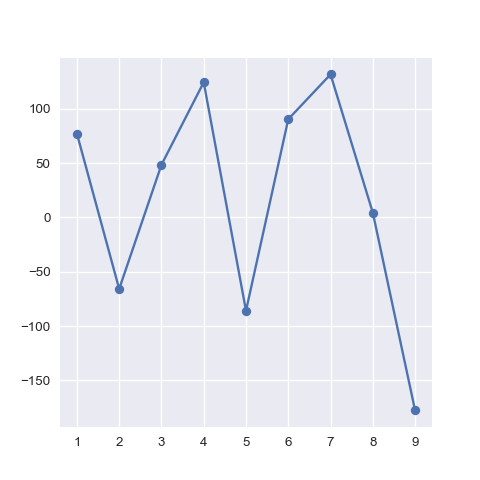
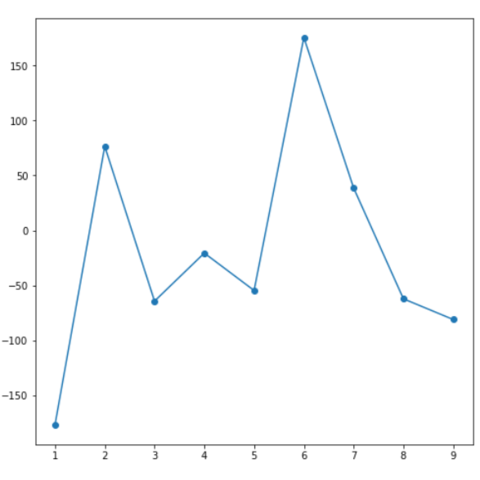
correct some stuff on the connected scatter section

diff --git a/src/pages/connected-scatter-plot.js b/src/pages/connected-scatter-plot.js
@@ -16,16 +16,20 @@ import Spacing from "../components/Spacing";
 const chartDescription =
   "<p>A <a href='https://www.data-to-viz.com/graph/connectedscatter.html'>connected scatterplot</a> is a <a href='https://python-graph-gallery.com/line-chart/'>line chart</a> where each data point is shown by a circle or any type of marker. This section explains how to build a connected scatterplot with <code>Python</code>, using both the <code>Matplotlib</code> and the <code>Seaborn</code> libraries.</p>";
 
-const quickCode = `# library
-import seaborn as sns
-import pandas as pd
-import numpy as np
+const quickCode = `# libraries
+  import matplotlib.pyplot as plt
+  import numpy as np
+  import pandas as pd
 
-# Create a dataset
-df = pd.DataFrame(np.random.random((5,5)), columns=["a","b","c","d","e"])
+  # data
+  df = pd.DataFrame({
+      'x_axis': range(1,10),
+      'y_axis': np.random.randn(9)*80+range(1,10)
+  })
 
-# Default heatmap
-p1 = sns.heatmap(df)
+  # plot
+  plt.plot('x_axis', 'y_axis', data=df, linestyle='-', marker='o')
+  plt.show()
 `
 
 export default function ConnectedScatter() {
@@ -43,7 +47,12 @@ export default function ConnectedScatter() {
         <h2 id="Quick">&#9201; Quick start</h2>
         <Row className="align-items-center">
           <Col md={6}>
-            <p>TODO.🔥</p>
+            <p>Building a connected scatterplot with Python and Matplotlib is a breeze thanks to
+              the <code>plot()</code> function. The 2 first argumenst are the X and Y values respectively, which
+              can be stored in a <code>pandas</code> data frame.</p>
+            <p>The <code>linestyle</code> and <code>marker</code> arguments allow to use line and circles to make it look like
+              a connected scatterplot. It means everything is very close to a <Link to="/line-chart">line chart</Link> or a <Link to="/scatter-plot">scatterplot</Link> that
+              are extensively described in the gallery.</p>
           </Col>
           <Col md={6}>
             <Link to={"/132-basic-connected-scatterplot"}>
@@ -82,13 +91,7 @@ export default function ConnectedScatter() {
           a line chart, so feel free to visit the related section. Here are a few examples to remind the
           basics and understand how to customize the markers.
         </p>
-        <Row>
-          <ChartImageContainer
-            imgName="132_Matplotlib-connected-scatterplot"
-            caption="Basic connected scatterplot with Python and Seaborn."
-            linkTo="/132-basic-connected-scatterplot"
-          />
-        </Row>
+        <p><i>Coming soon</i></p>
       </Container>
 
       <Spacing />

diff --git a/src/pages/line-chart.js b/src/pages/line-chart.js
@@ -49,7 +49,7 @@ export default function LinePlot() {
           <Col md={6}>
             <Link to={"/120-line-chart-with-matplotlib"}>
               <ChartImage imgName="120_Basic_lineplot2"
-                caption="The most basic histogram one can make with python and seaborn" />
+                caption="A basic line chart made with python and seaborn" />
             </Link>
           </Col>
         </Row>
